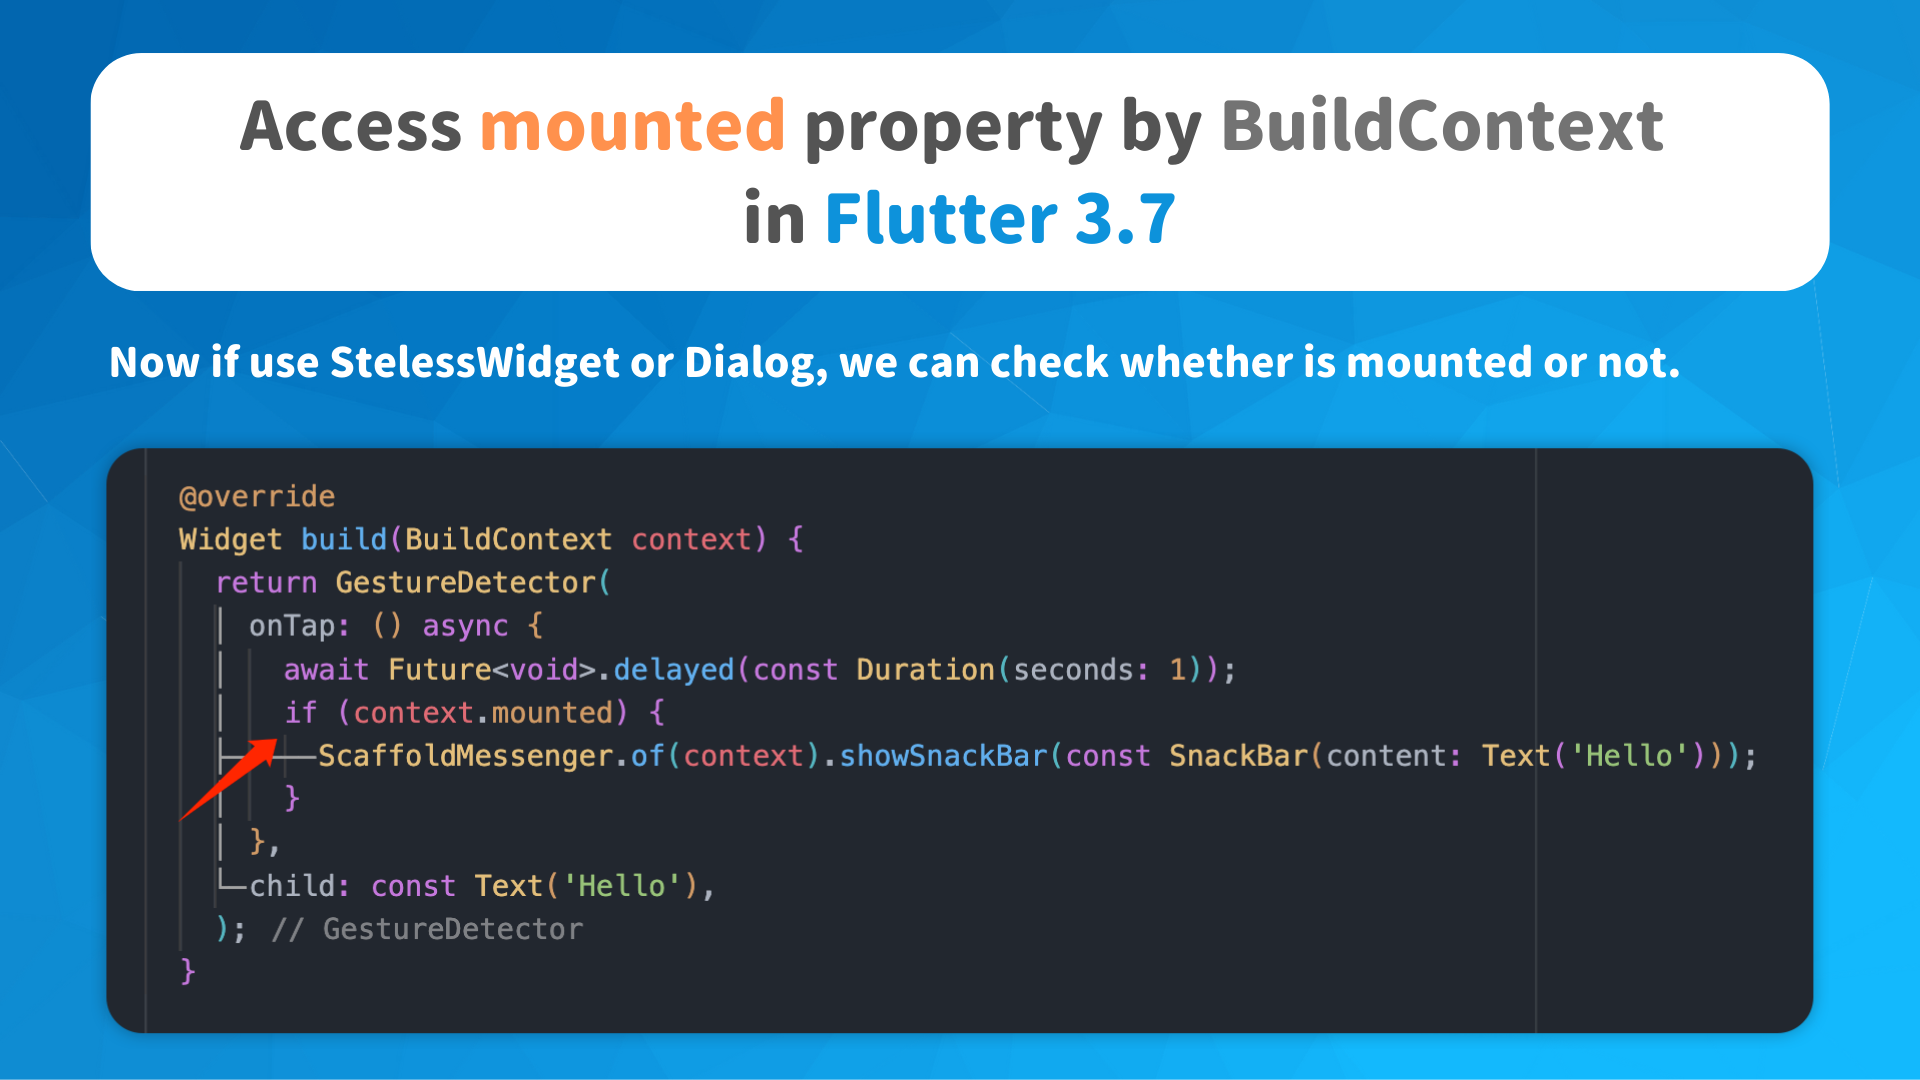
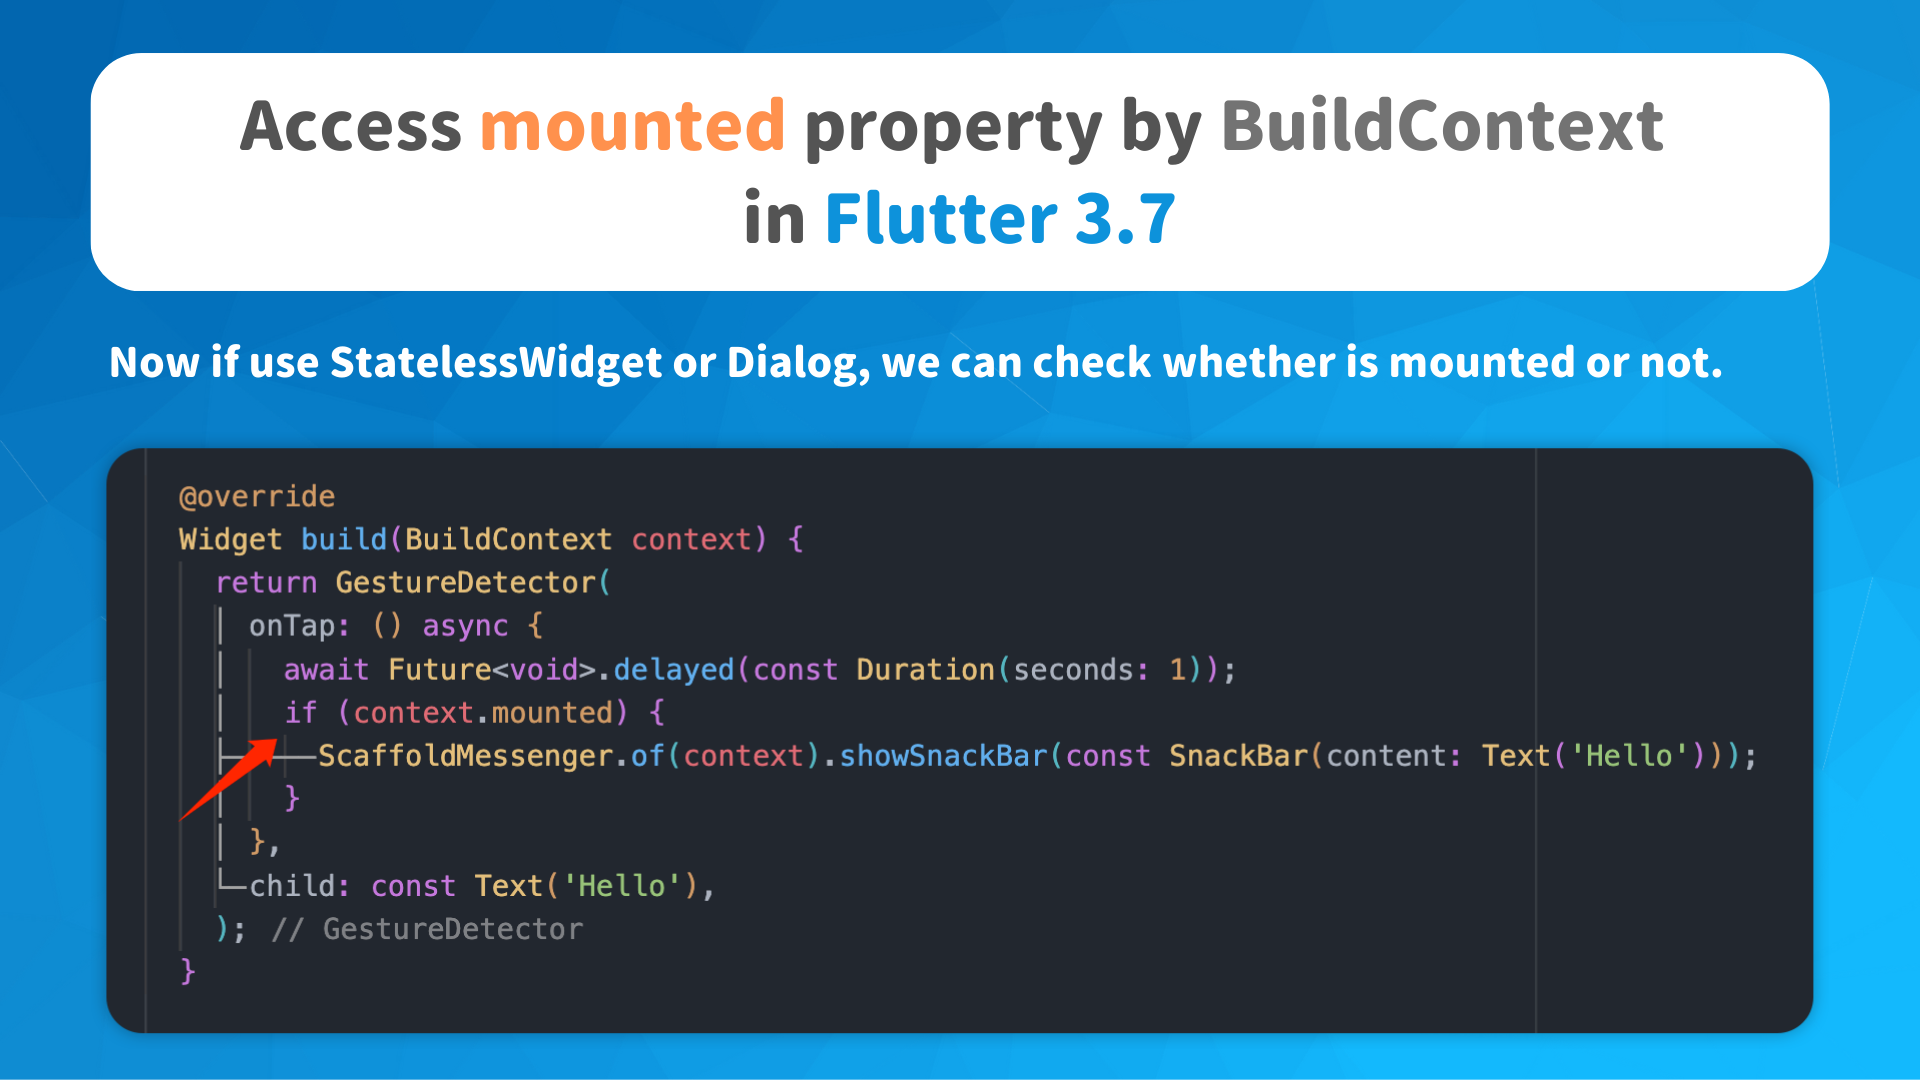
update image file and readme.md

Changed region(s): [[0.1875, 0.3056, 0.9062, 0.3667]]

diff --git a/tips/0002-access-mounted-property-by-buildcontext/README.md b/tips/0002-access-mounted-property-by-buildcontext/README.md
@@ -1,6 +1,6 @@
 # Access mounted property by BuildContext in Flutter 3.7
 
-- Now if use StelessWidget or Dialog, we can check whether is mounted or not
+- Now if use StatelessWidget or Dialog, we can check whether is mounted or not
 
 - Make sure the current widget is still mounted to Widget Tree after doing some asynchronous operations
 

diff --git a/tips/0003-use-isolate-run-to-deal-with-complicated-tasks/README.md b/tips/0003-use-isolate-run-to-deal-with-complicated-tasks/README.md
@@ -2,6 +2,4 @@
 
 - Strong and safe API for dealing with heavy tasks, and effectively returning data back to the main isolate. It can replace compute() API
 
-- Keep in mind that access context synchronously
-
 <img src='./demo.png'/>
